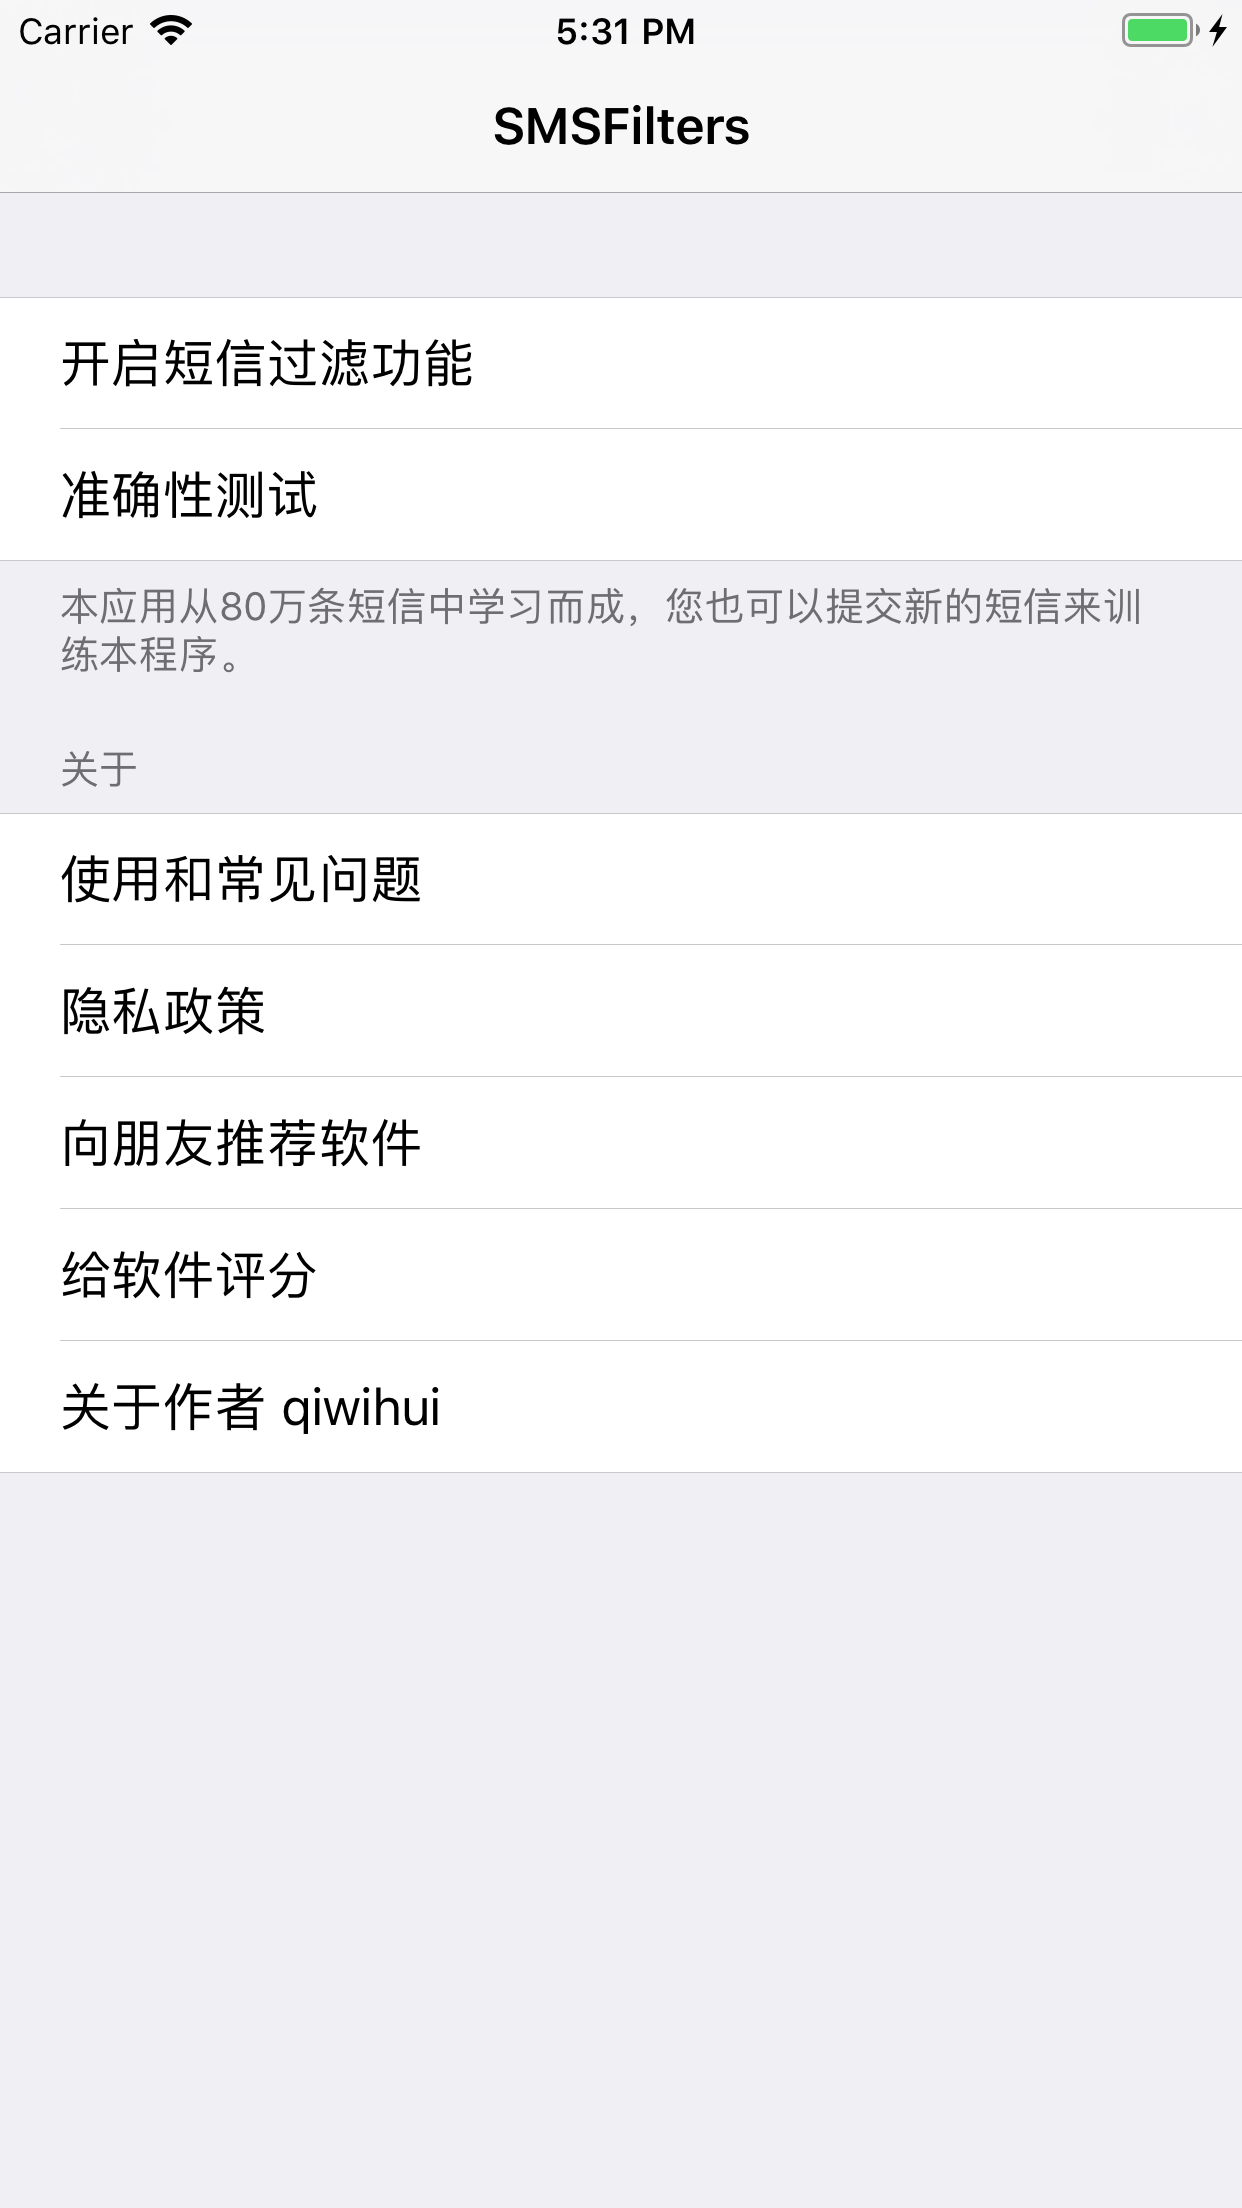
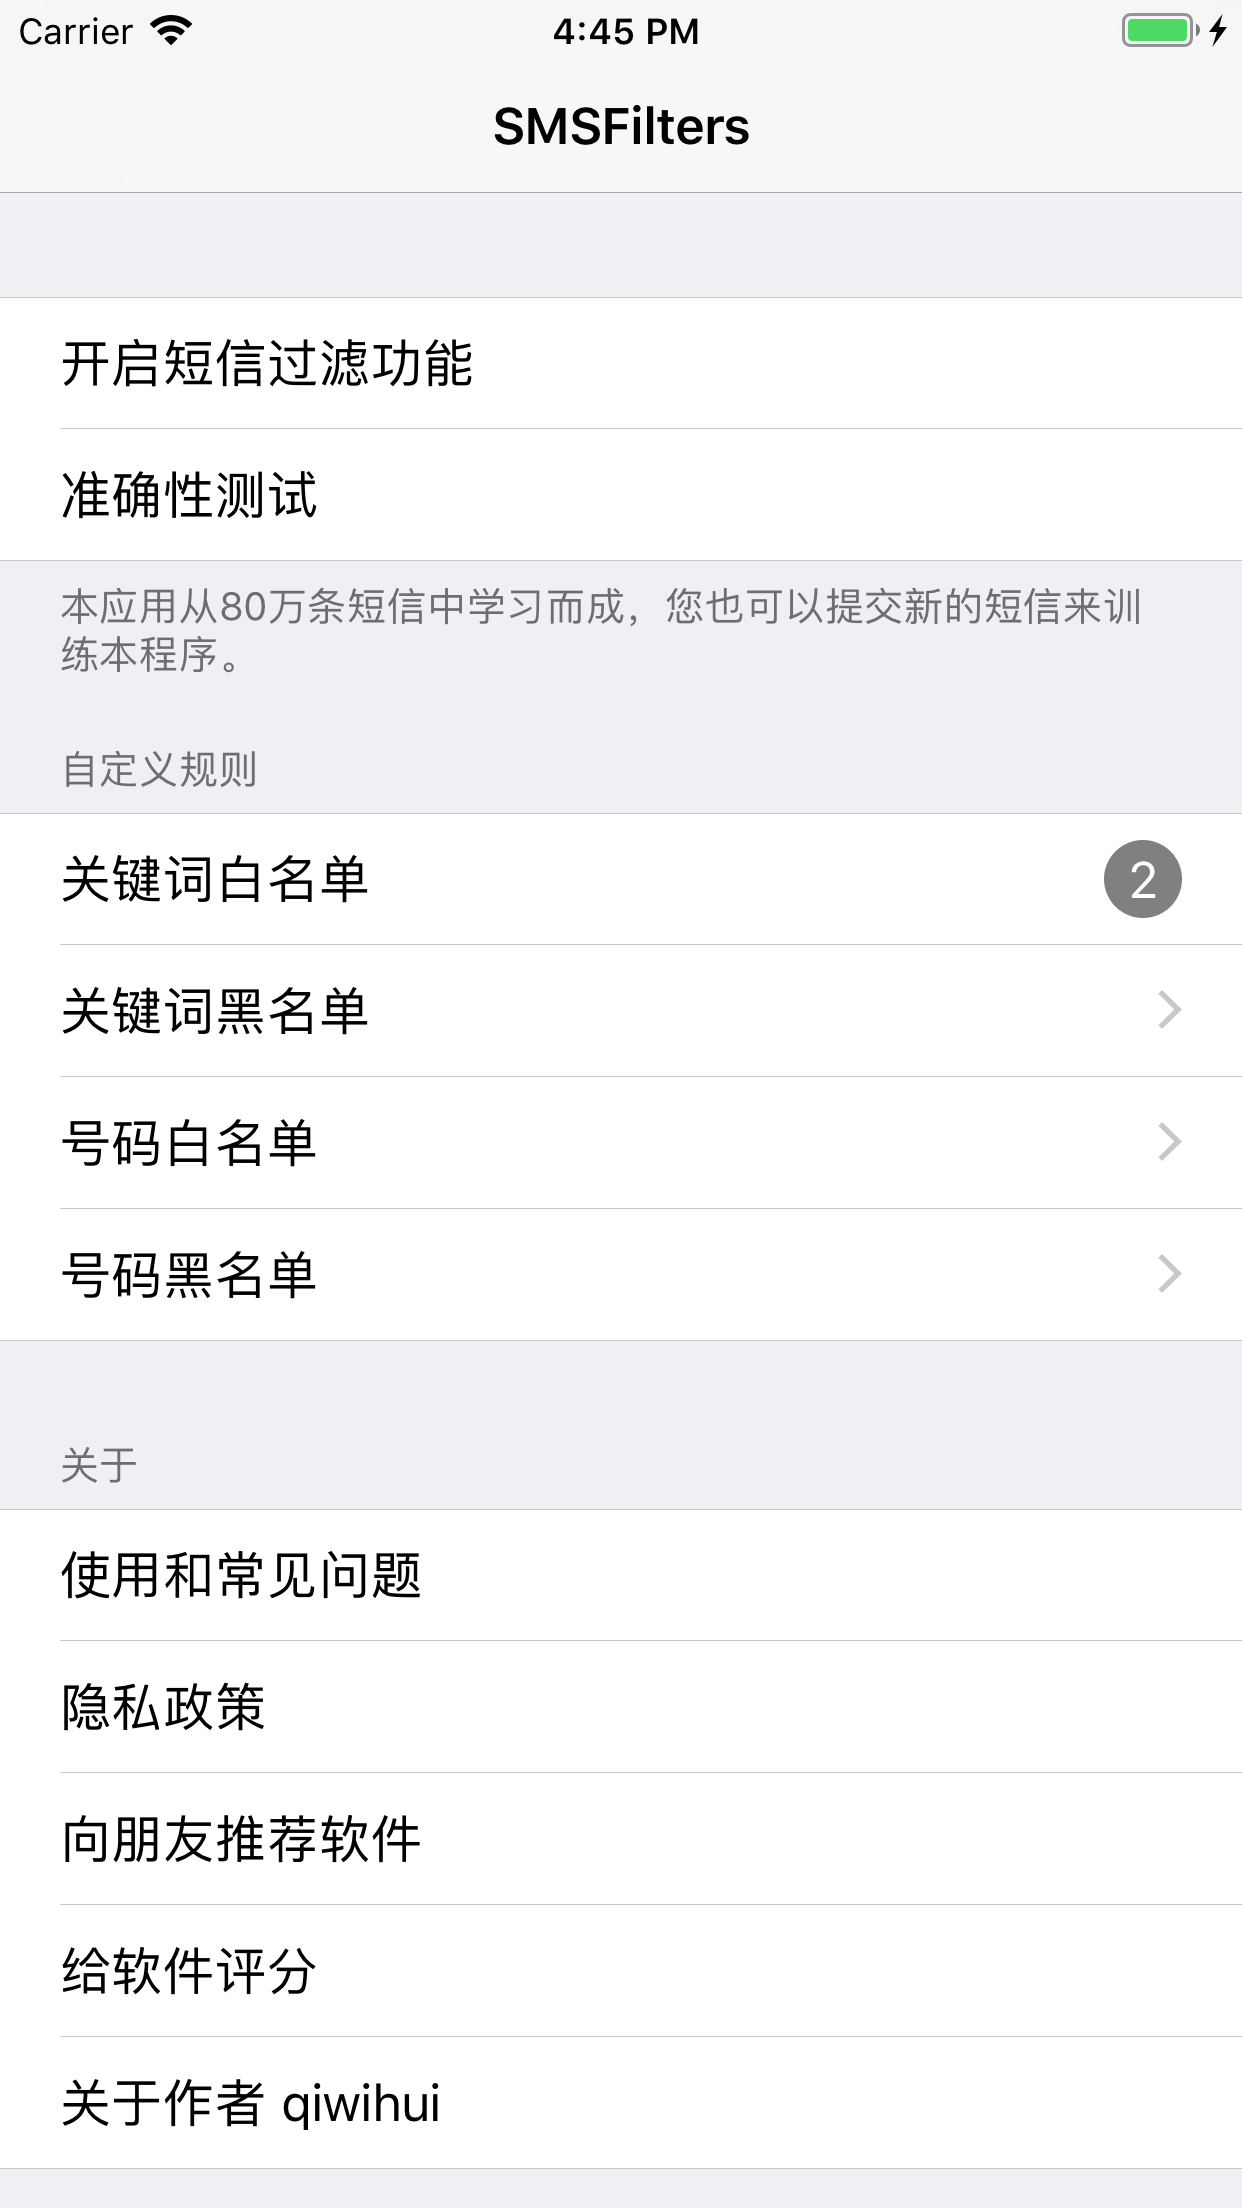
docs: 界面截图和进度

diff --git a/README.md b/README.md
@@ -24,10 +24,10 @@ $ conda env create --file=environment.yml
     - [x] 提交短信
 
 2. 自定义规则
-    - [ ] 关键词黑名单
-    - [ ] 关键词白名单
-    - [ ] 号码黑名单
-    - [ ] 号码白名单
+    - [x] 关键词黑名单
+    - [x] 关键词白名单
+    - [x] 号码黑名单
+    - [x] 号码白名单
 
 3. 关于
     - [ ] 帮助和常见问题
@@ -38,4 +38,6 @@ $ conda env create --file=environment.yml
 
 ### 界面截图
 
-![主要界面](images/screenshot_main.png)
+主要界面             |  短信测试界面
+:-------------------------:|:-------------------------:
+![](images/screenshot_main.png)  |  ![](images/screenshot_predict.png)
